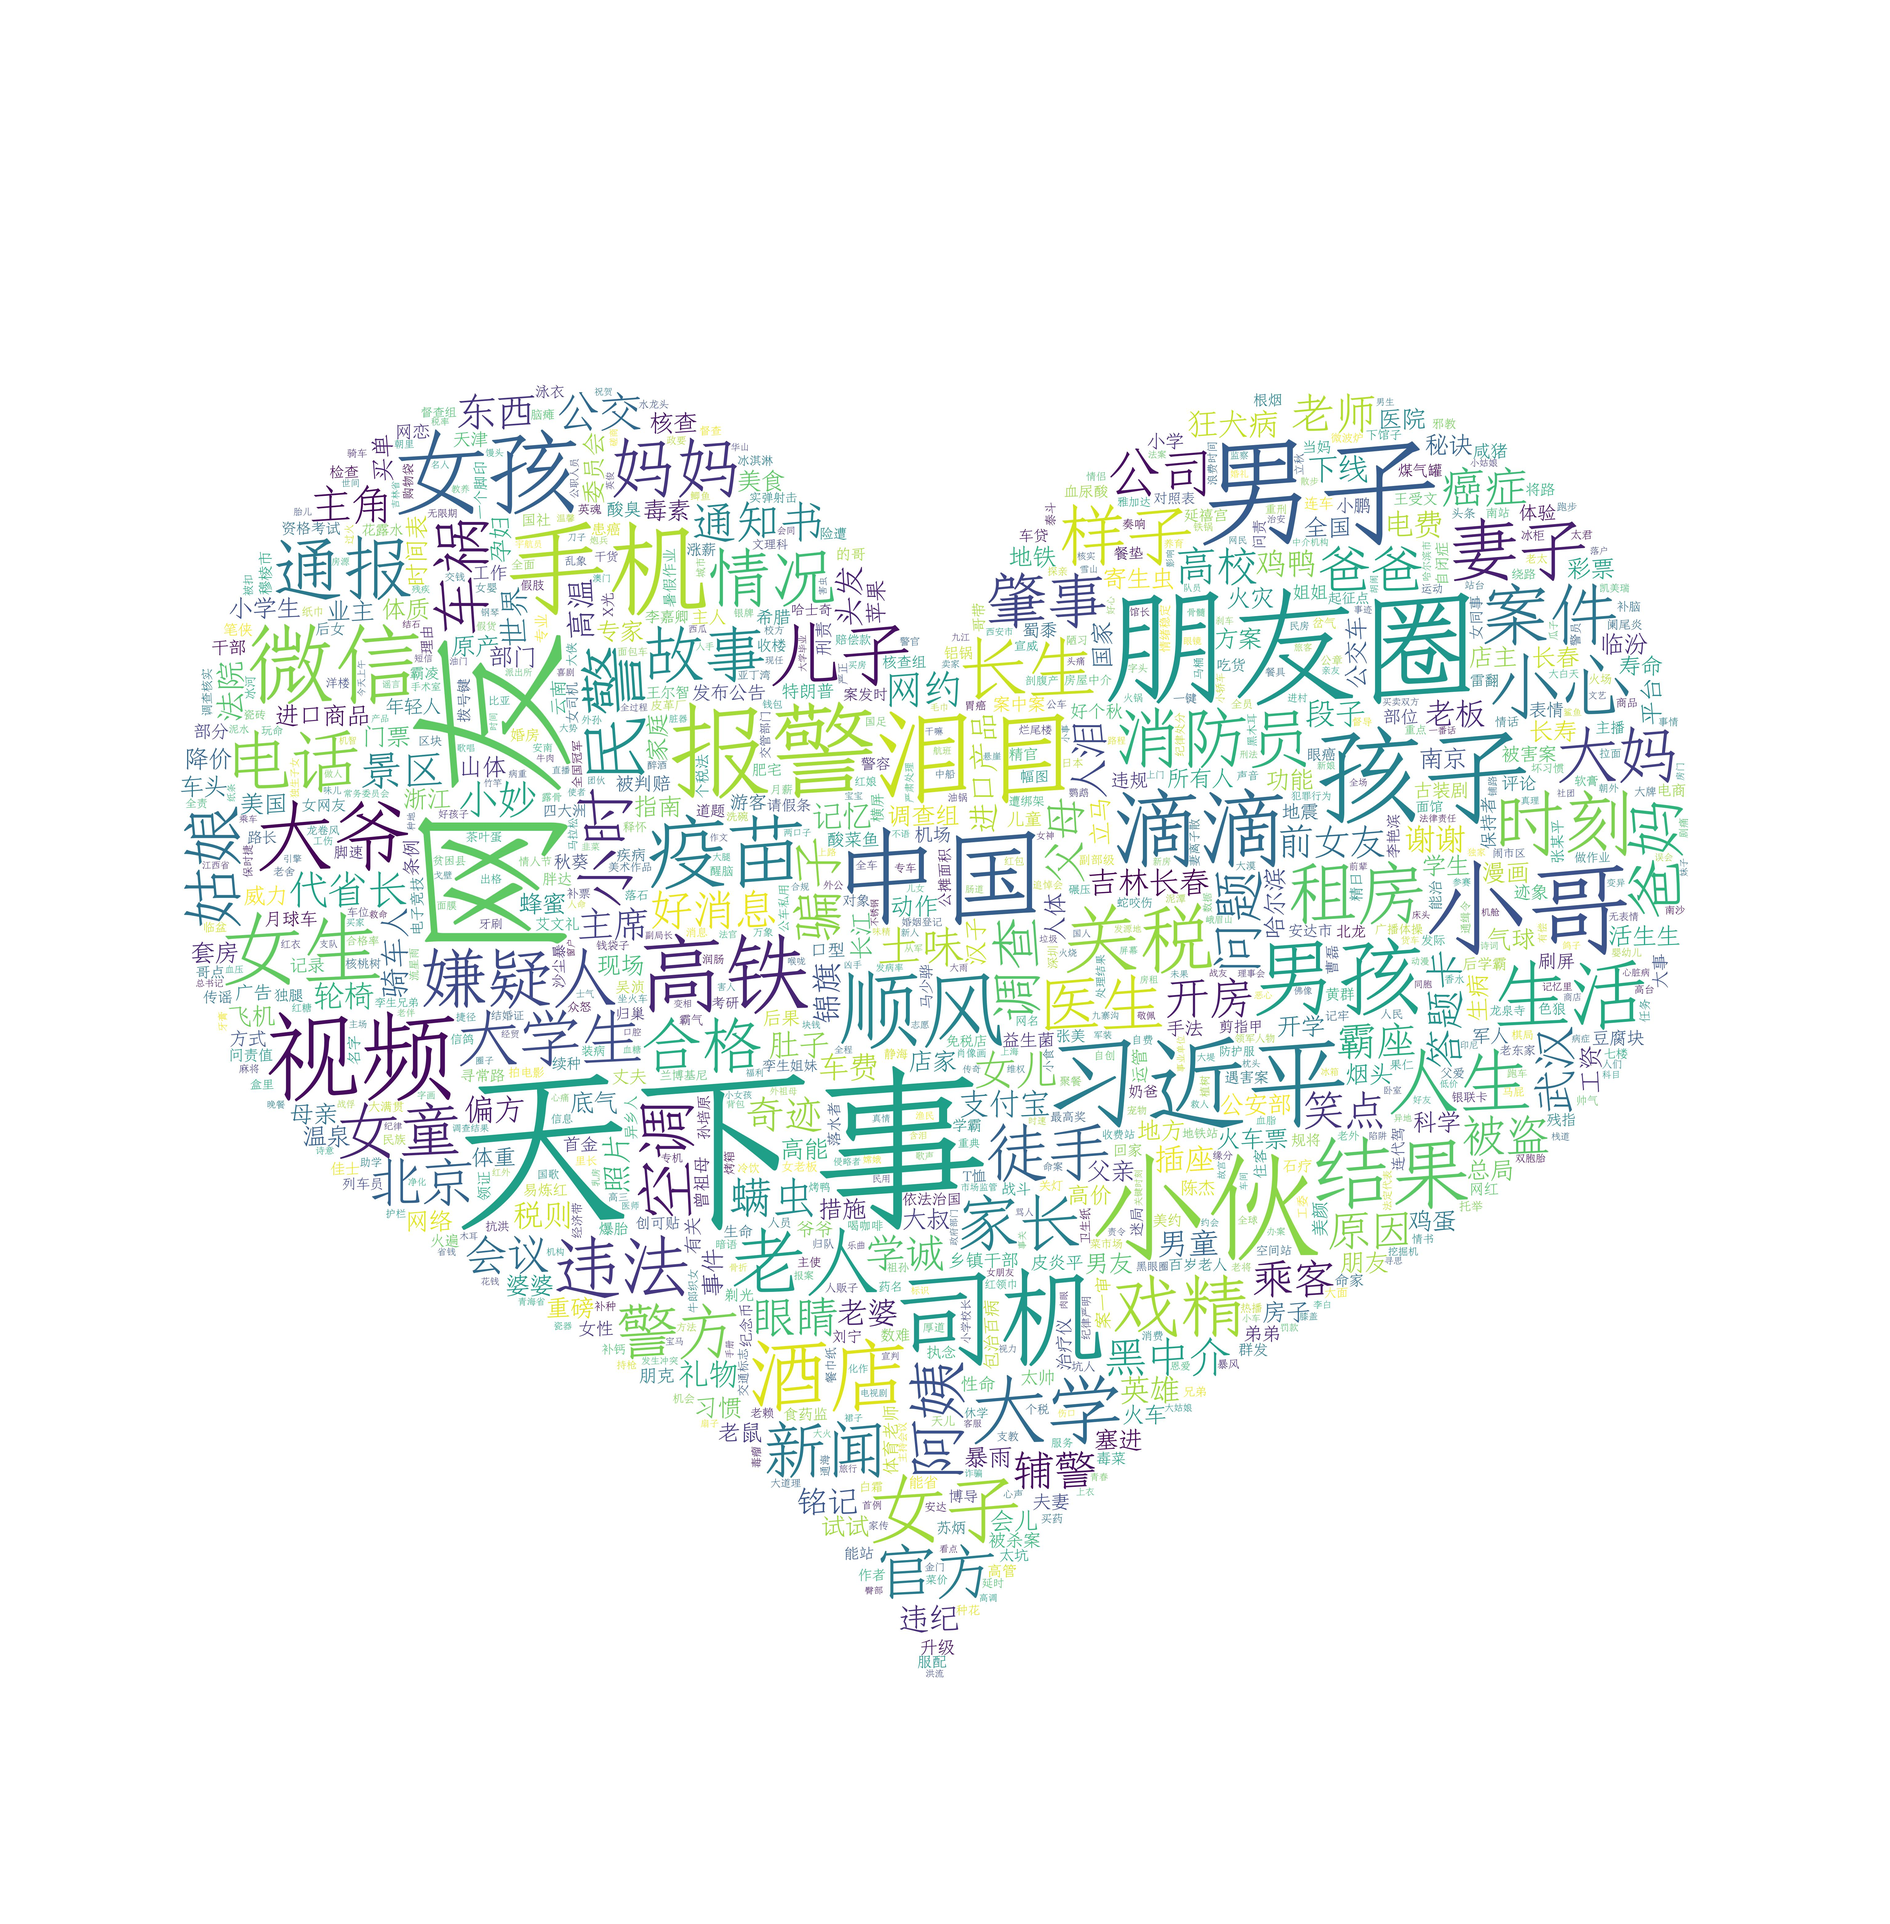
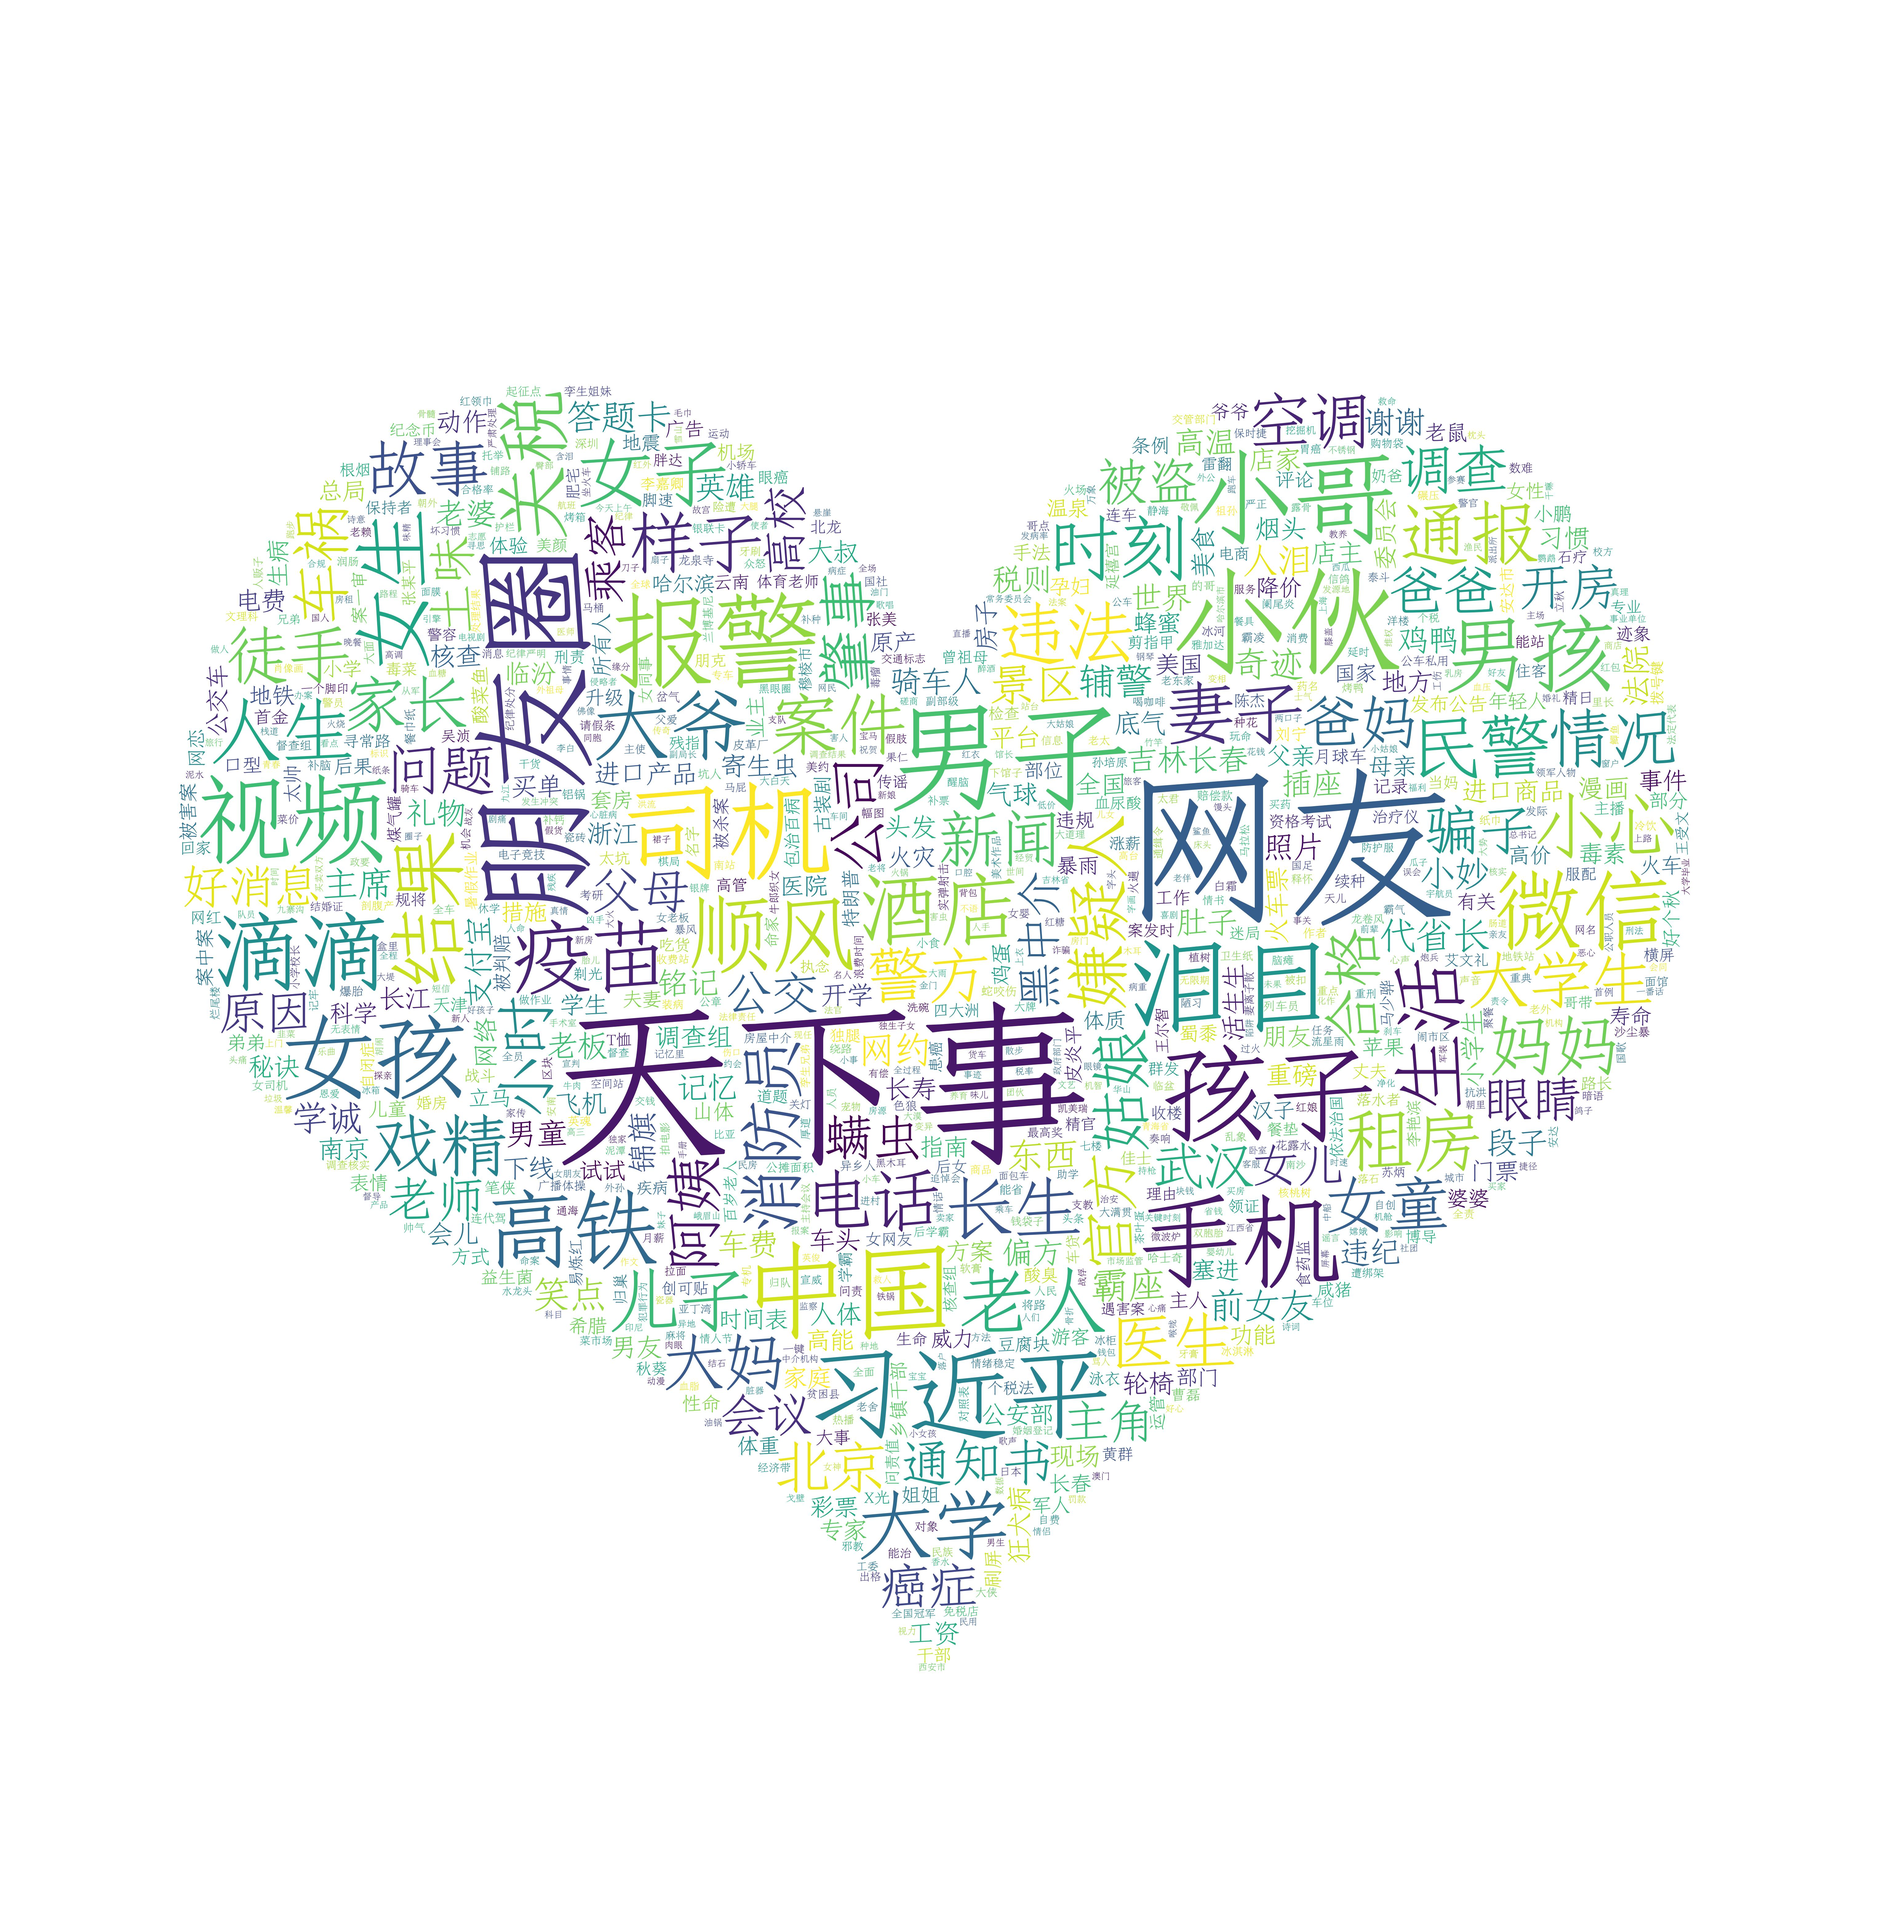
0914

Changed region(s): [[0.0938, 0.1871, 0.9062, 0.8729]]

diff --git a/0906/hotword_analysis_to_xjy.py b/0906/hotword_analysis_to_xjy.py
@@ -6,7 +6,7 @@ from PIL import Image
 import numpy as np
 import pandas as pd
 import datetime
-# import matplotlib.pyplot as plt
+import matplotlib.pyplot as plt
 
 
 with open('XinHuaShe_Final.csv',encoding='utf-8',errors='ignore') as csv_file:
@@ -18,15 +18,15 @@ with open('XinHuaShe_Final.csv',encoding='utf-8',errors='ignore') as csv_file:
         ﹔﹕﹖﹗﹚﹜﹞！），．：；？｜｝︴︶︸︺︼︾﹀﹂﹄﹏､～￠
         々‖•·ˇˉ―--′’”([{£¥'"‵〈《「『【〔〖（［｛￡￥〝︵︷︹︻
         ︽︿﹁﹃﹙﹛﹝（｛“‘-—_…''')
-    str_convert = ''.join([a for a in str_convert if a not in punct])
+    # str_convert = ''.join([a for a in str_convert if a not in punct])
 
-    content = jieba.analyse.extract_tags(str_convert,topK=1000,withWeight=True, allowPOS=('ns', 'n', 'vn', 'nr', 'nrfg'))
-    tf = dict((a[0],a[1]) for a in content)
-
-    alice_coloring = np.array(Image.open(path.join(".", "new.jpeg")))
-    wordcloud_image = WordCloud(font_path='./FZQingFSJW_Cu.TTF', background_color='white', max_words=2000,
-                                mask=alice_coloring, scale=5, mode='RGB').generate_from_frequencies(tf)
-    wordcloud_image.to_file('hotword1000.jpeg')
+    # content = jieba.analyse.extract_tags(str_convert,topK=1000,withWeight=True, allowPOS=('ns', 'n', 'vn', 'nr', 'nrfg'))
+    # tf = dict((a[0],a[1]) for a in content)
+    #
+    # alice_coloring = np.array(Image.open(path.join(".", "new.jpeg")))
+    # wordcloud_image = WordCloud(font_path='./FZQingFSJW_Cu.TTF', background_color='white', max_words=2000,
+    #                             mask=alice_coloring, scale=5, mode='RGB').generate_from_frequencies(tf)
+    # wordcloud_image.to_file('hotword1000.jpeg')
 
 
     data_df = pd.read_csv('XinHuaShe_Final.csv')
@@ -43,14 +43,14 @@ with open('XinHuaShe_Final.csv',encoding='utf-8',errors='ignore') as csv_file:
                                          allowPOS=('ns', 'n', 'vn', 'nr', 'nrfg'))
 
     tf2 = dict((a[0], a[1]) for a in content2)
-    alice2_coloring = np.array(Image.open(path.join(".", "timg.jpeg")))
+    alice2_coloring = np.array(Image.open(path.join(".", "heart.jpg")))
     wordcloud_image2 = WordCloud(font_path='./FZQingFSJW_Cu.TTF', background_color='white', max_words=2000,
                                 mask=alice2_coloring, scale=3).generate_from_frequencies(tf2)
     wordcloud_image2.to_file('8month.jpeg')
 
 
-    # plt.figure(figsize=(5,5))
-    # plt.imshow(wordcloud_image,interpolation='bilinear')
-    #
-    # plt.axis('off')
-    # plt.show()
+    plt.figure(figsize=(5,5))
+    plt.imshow(wordcloud_image2,interpolation='bilinear')
+
+    plt.axis('off')
+    plt.show()

diff --git a/0914/analysisdata.py b/0914/analysisdata.py
@@ -1,0 +1,46 @@
+# 编写名为analysisdata.py的python代码文件，读取dongcheng-fangzu.csv文件中的数据，
+# 筛选出价格小于等于10000元的房屋数据，按照1000元的价格区间（例如3000~4000、4000~5000等，
+# 包括最小值但不包括最大值），统计各个房价区间的房屋数量，绘制成柱状图显示，
+# 保存图片为showdata.png。
+
+import pandas as pd
+import matplotlib.pyplot as plt
+class main_func():
+    '''
+    读取房屋数据
+    根据各个房价区间的房屋数量 生成柱状图
+    '''
+    file_path='./dongcheng-fangzu.csv'
+    data_df=pd.read_csv(file_path,delimiter=',',encoding='gbk',usecols=[4])
+    result=[0,0,0,0,0,0,0,0,0,0]
+    labels=['0-1k','1k-2k','2k-3k','3k-4k','4k-5k','5k-6k','6k-7k','7k-8k','8k-9k','9k-10k']
+    for item in data_df.values.tolist():
+        if item[0]<1000:
+            result[0]+=1
+        elif item[0]<2000:
+            result[1]+=1
+        elif item[0]<3000:
+            result[2]+=1
+        elif item[0]<4000:
+            result[3]+=1
+        elif item[0]<5000:
+            result[4]+=1
+        elif item[0]<6000:
+            result[5]+=1
+        elif item[0]<7000:
+            result[6]+=1
+        elif item[0]<8000:
+            result[7]+=1
+        elif item[0]<9000:
+            result[8]+=1
+        elif item[0]<10000:
+            result[9]+=1
+
+    plt.figure(figsize=(8,8))
+    plt.bar(labels, result)
+    plt.xticks(size='small',rotation=30)
+    plt.savefig('./showdata.png')
+    plt.show()
+
+if __name__ == '__main__':
+    main_func()

diff --git a/0914/savedata.py b/0914/savedata.py
@@ -1,0 +1,22 @@
+# 编写名为savedata.py的python代码文件，读取dongcheng-fangzu.csv文件中的数据，
+# 连接MongoDB数据库，将数据存入dongcheng数据库的fangzu集合中
+import pymongo
+
+client = pymongo.MongoClient("localhost",27017)
+
+dongcheng = client["dongcheng"]
+fangzu = dongcheng["fangzu"]
+
+with open("./dongcheng-fangzu.csv","r") as f :
+    lines = f.readlines()
+    for index,line in enumerate(lines):
+        if index > 0:
+            pre_data = line.replace("\n","").split(",")
+            data = {
+                "地区": pre_data[0],
+                "名称": pre_data[1],
+                "户型": pre_data[2],
+                "面积": pre_data[3],
+                "价格": pre_data[4]
+            }
+            fangzu.insert_one(data)
